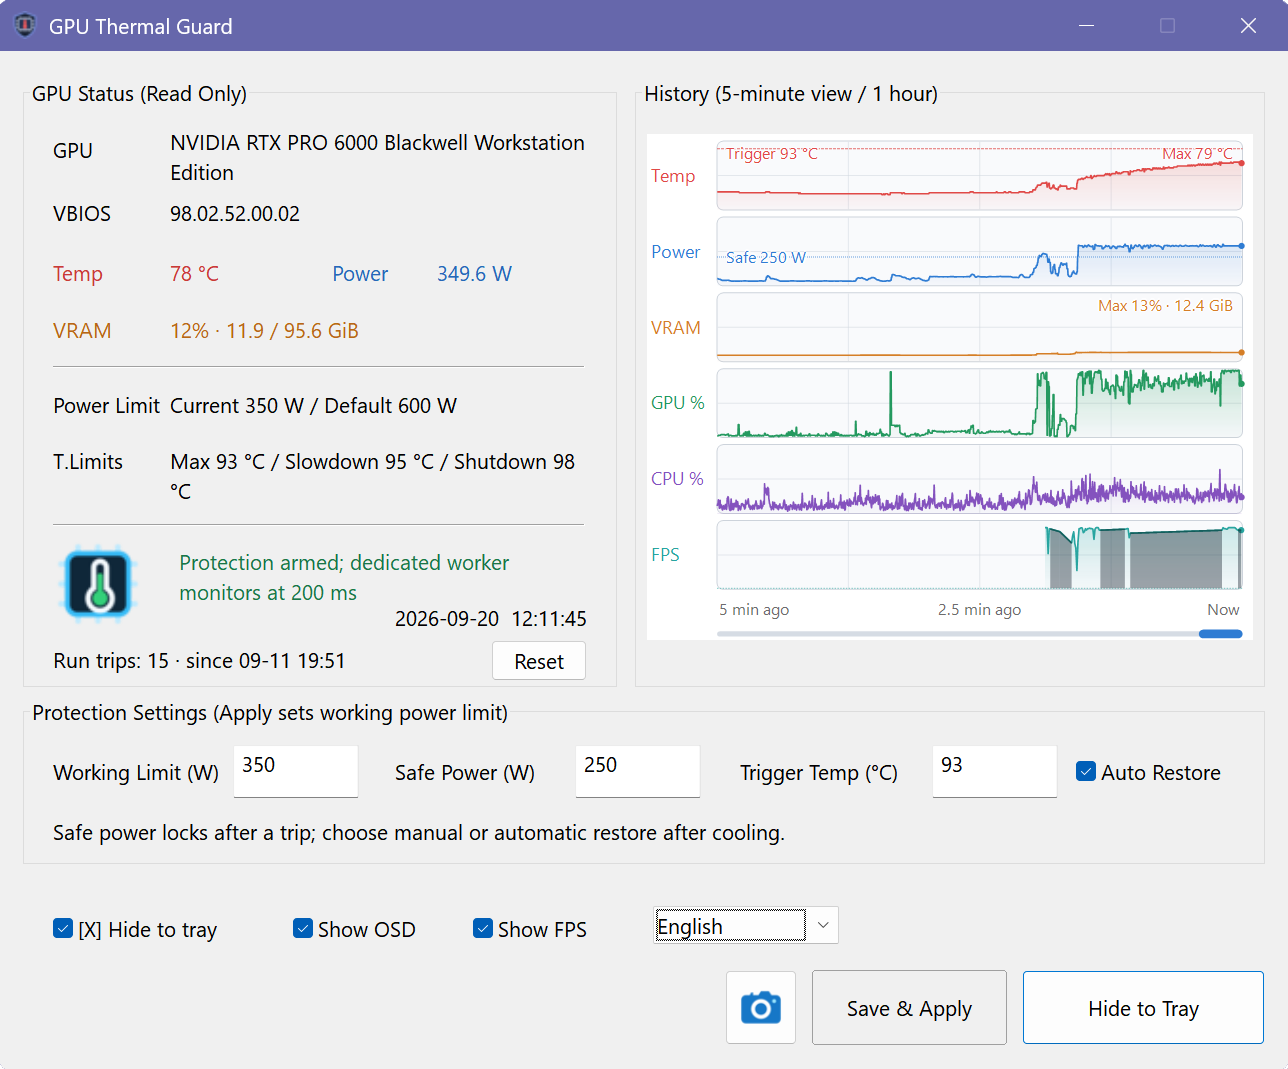
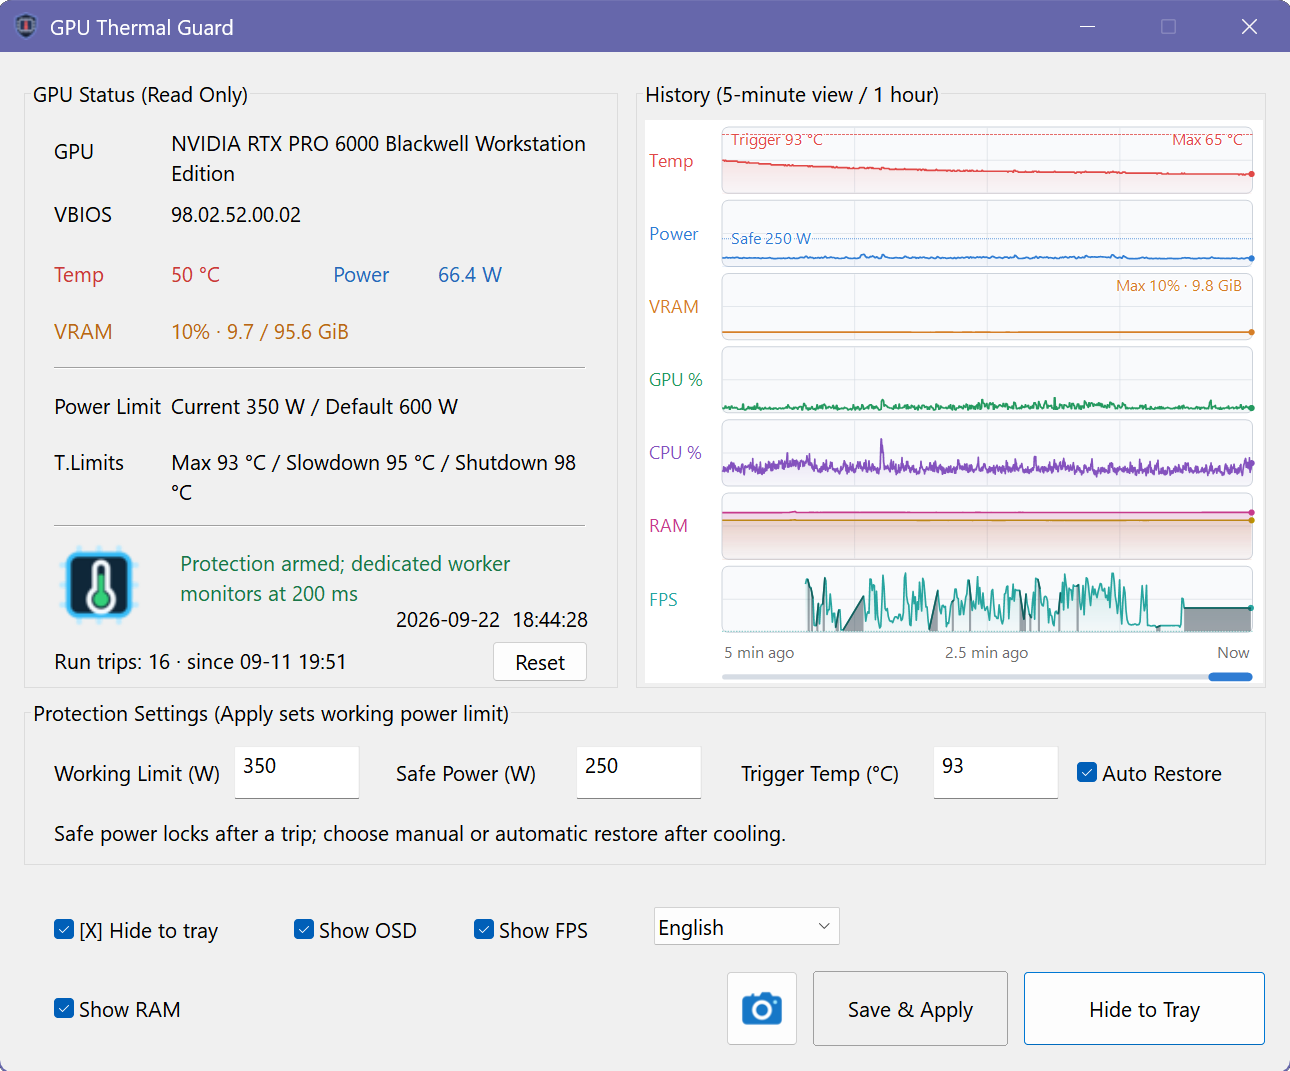
docs(readme): show the 0.11.0 UI and the arrangement demo

diff --git a/README.md b/README.md
@@ -11,17 +11,21 @@ GpuThermalGuard watches GPU telemetry in real time and applies a preconfigured l
 
 ## Screenshots
 
-| Main dashboard with optional FPS history | Compact 30-second OSD with FPS |
+| Main dashboard, seven history records | Expanded OSD, arranged by the reader |
 | --- | --- |
-| ![GpuThermalGuard dashboard showing the sixth FPS history lane](docs/images/dashboard.png) | ![Compact OSD showing six metric cards including FPS](docs/images/osd-compact.png) |
+| ![GpuThermalGuard dashboard with temperature, power, VRAM, GPU, CPU, RAM and FPS history](docs/images/dashboard.png) | ![Expanded OSD showing seven metric rows in a custom order](docs/images/osd.png) |
 
 Screenshots show one workstation's settings, not recommended limits for every GPU.
 
 ### Compact OSD
 
-![Compact OSD with six live metrics and miniature trends when FPS is enabled](docs/images/osd-compact.png)
+![Compact OSD, one row of seven live metrics with 30-second miniature trends](docs/images/osd-compact.png)
 
-Use the chevron in the OSD header to switch between the full charts and compact mode. Compact mode shows temperature, power, VRAM, GPU utilization, and CPU utilization in small cards with live values and 30-second miniature trends. **Show RAM** and **Show FPS** each add a card; unchecking one returns the layout to the records that remain.
+Use the chevron in the OSD header to switch between the full charts and compact mode. Compact mode shows each record as a small card with a live value and a 30-second miniature trend. **Show RAM** and **Show FPS** each add a card; unchecking one returns the layout to the records that remain.
+
+By default every enabled record sits on one row, so the OSD grows sideways with the record count rather than getting taller. You can also arrange it into two rows:
+
+![The same compact OSD arranged into two rows, five cards above and two below](docs/images/osd-compact-two-rows.png)
 
 Protection alerts and telemetry warnings remain visible in the header. Switching views does not pause monitoring or change protection settings. Drag the header outside the buttons to move the OSD; restart returns to the expanded view.
 
@@ -29,11 +33,19 @@ Compact mode is included starting with v0.9.0-beta.2.
 
 ### Arranging the compact OSD
 
-Starting with v0.11.0-beta.1, the compact dashboard is a single row of whichever records are enabled, and you can rearrange it. The lock control left of the chevron toggles between locked, where the cells ignore the pointer, and unlocked, where they do not.
+![Unlocking the compact OSD, dragging cards to reorder them and into a second row, then locking it again](docs/images/osd-arrange.gif)
 
-Unlocked, press a cell and release it where you want it. Release it on the same row to reorder; release it below to move it into a second row, or above to bring it back. The first row keeps at least five cells, so five records are always a single row. The arrangement is remembered between runs, and **Reset OSD layout** in the tray menu restores the default.
+Starting with v0.11.0-beta.1 you can rearrange the compact dashboard. The lock control left of the chevron toggles between locked, where the cards ignore the pointer, and unlocked, where they do not. Locked is the resting state and is drawn quietly; unlocked turns amber, because an always-on-top window that accepts drags should say so.
 
-The lock governs the cells only. The OSD itself still moves by its top bar whether locked or not.
+Unlocked, press a card and release it where you want it:
+
+- release it on the same row to reorder,
+- release it below the row to move it into a second row,
+- release it on the first row to bring it back up.
+
+The first row keeps at least five cards, so five records are always a single row. The expanded OSD follows the same order. The arrangement is remembered between runs, and **Reset OSD layout** in the tray menu restores the default.
+
+The lock governs the cards only. The OSD itself still moves by its top bar whether locked or not.
 
 ### Optional host RAM
 
